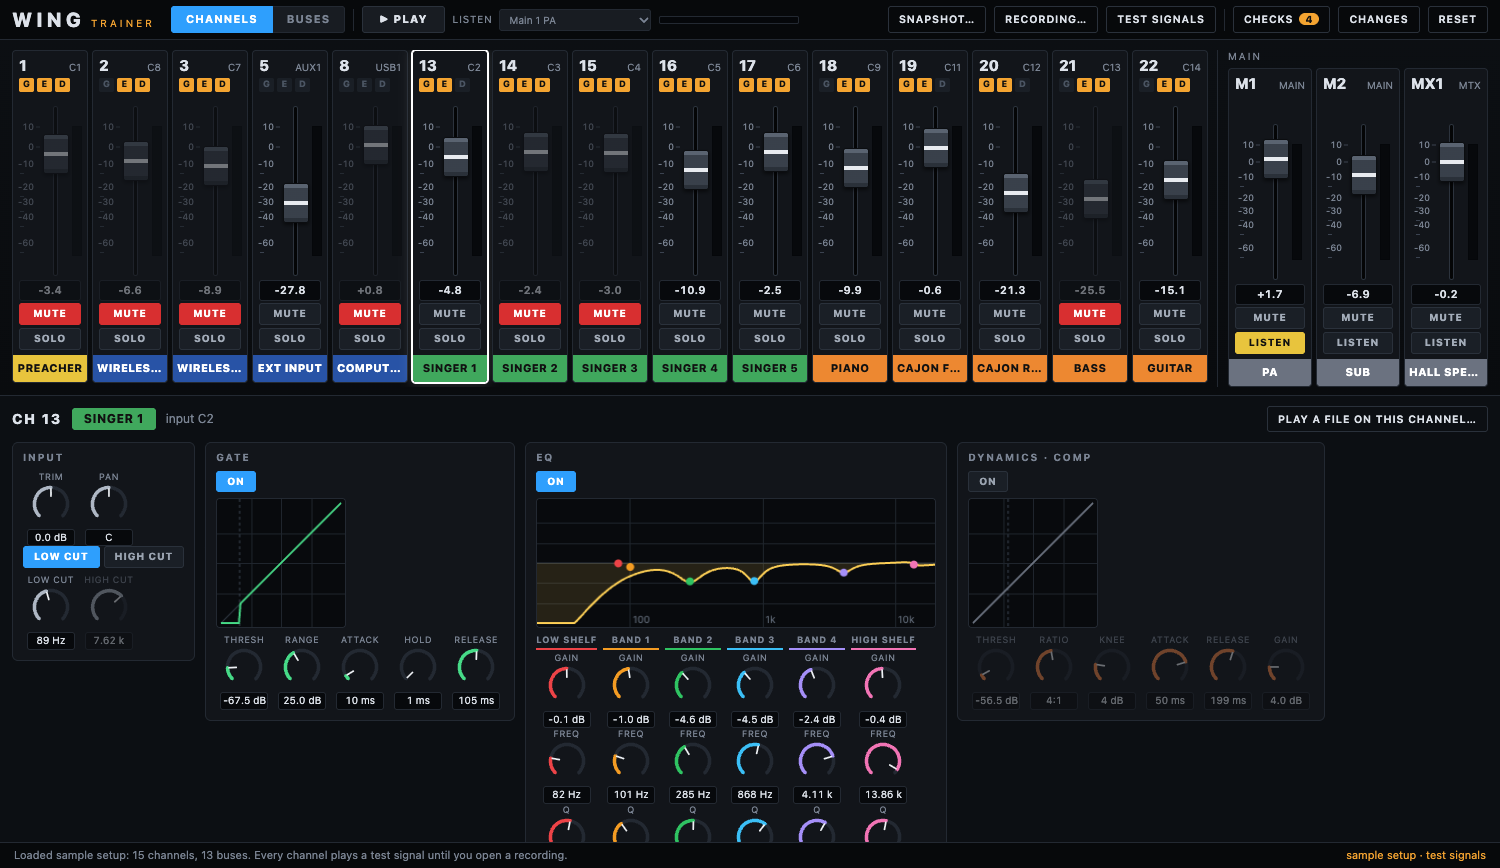
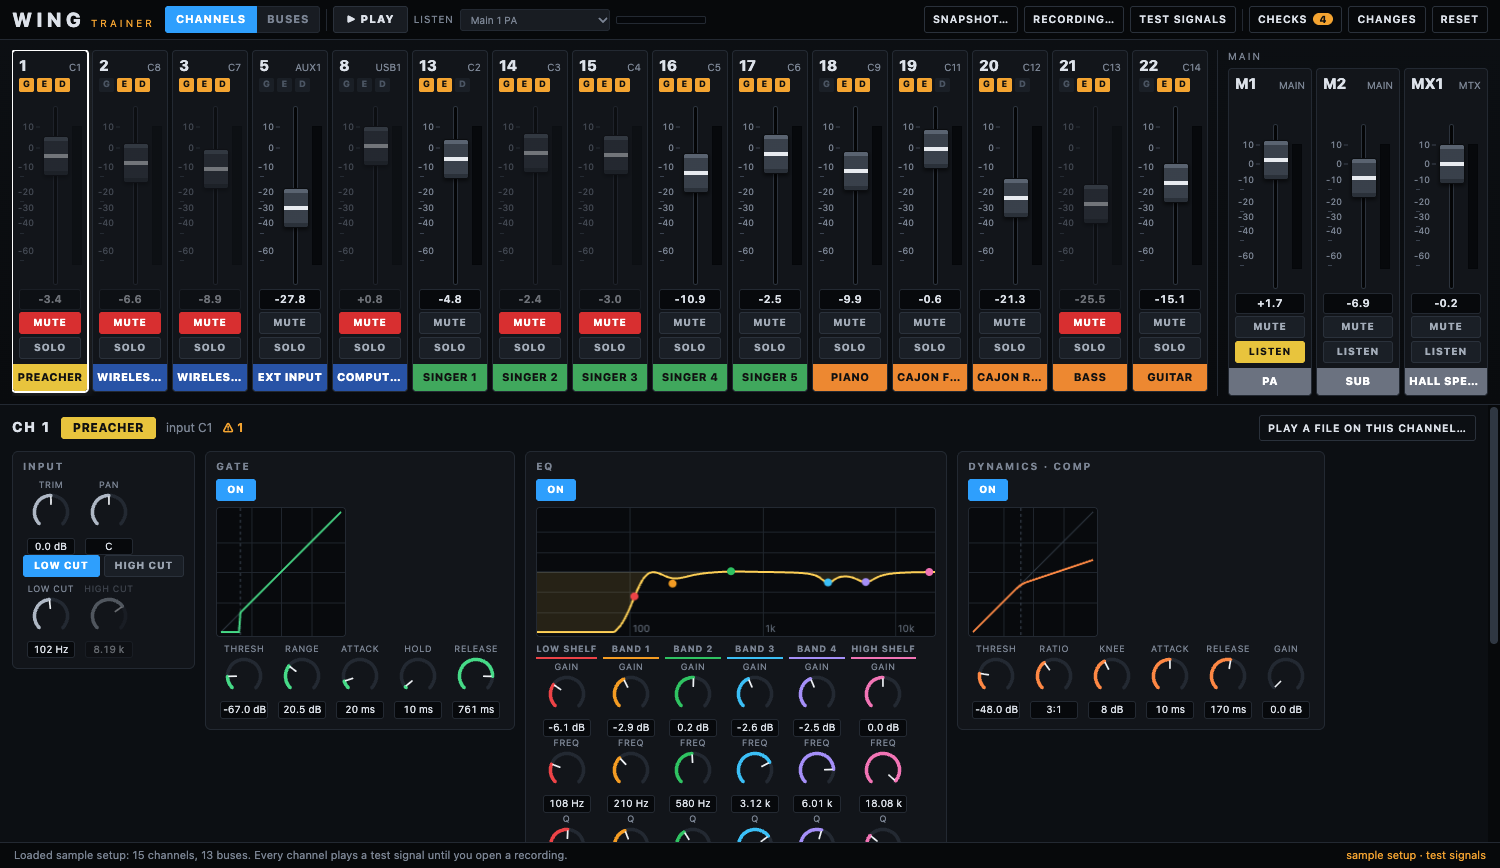
Fix the layout in smaller windows: nothing is cut off, strips and detail scroll with visible scrollbars, sends are readable

diff --git a/src/renderer/index.html b/src/renderer/index.html
@@ -9,23 +9,25 @@
       :root { color-scheme: dark; --bg: #0a0c0f; --panel: #12151a; --raised: #181c22; --line: #232932; --text: #dde2ea; --dim: #7b8494; --blue: #2f9bff; --amber: #f5a623; --red: #d9302c; --yellow: #e8c630; --green: #2fc46e; --knob: #aeb7c4 }
       * { box-sizing: border-box }
       html, body { height: 100%; margin: 0 }
-      body { background: var(--bg); color: var(--text); font: 12px/1.35 system-ui, -apple-system, 'Segoe UI', sans-serif; display: grid; grid-template-rows: auto 1fr auto; overflow: hidden; user-select: none }
+      body { background: var(--bg); color: var(--text); font: 12px/1.35 system-ui, -apple-system, 'Segoe UI', sans-serif; display: grid; grid-template-columns: minmax(0, 1fr); grid-template-rows: auto minmax(0, 1fr) auto; overflow: hidden; user-select: none }
       button, select { font: inherit; color: inherit }
       button { cursor: pointer } button:disabled { opacity: .4; cursor: default }
-      select { background: var(--raised); border: 1px solid var(--line); border-radius: 3px; padding: 3px 6px }
+      select { max-width: 150px; background: var(--raised); border: 1px solid var(--line); border-radius: 3px; padding: 3px 6px }
 
       /* top bar */
-      header { display: flex; align-items: center; gap: 8px; padding: 6px 12px; background: #07090b; border-bottom: 1px solid var(--line); flex-wrap: wrap }
-      .brand { display: flex; align-items: baseline; gap: 6px; margin-right: 8px } .brand b { font-size: 20px; letter-spacing: .22em; font-weight: 800 } .brand span { font-size: 10px; letter-spacing: .3em; color: var(--amber) }
-      .tabs { display: flex } .tab { background: var(--raised); border: 1px solid var(--line); padding: 5px 14px; letter-spacing: .1em; font-size: 11px; font-weight: 700; color: var(--dim) } .tab:first-child { border-radius: 3px 0 0 3px } .tab:last-child { border-radius: 0 3px 3px 0; border-left: 0 } .tab.on { background: var(--blue); border-color: var(--blue); color: #fff }
-      .flat { background: transparent; border: 1px solid #2a313b; border-radius: 3px; padding: 5px 10px; font-size: 10.5px; letter-spacing: .08em; font-weight: 600; color: var(--text) } .flat:hover { background: var(--raised) }
-      .play { background: var(--raised); border: 1px solid #2a313b; border-radius: 3px; padding: 5px 16px; font-weight: 800; letter-spacing: .1em; font-size: 11px } .play.on { background: var(--red); border-color: var(--red) }
+      header { display: flex; align-items: center; gap: 6px; padding: 6px 12px; background: #07090b; border-bottom: 1px solid var(--line); flex-wrap: wrap }
+      .brand { display: flex; align-items: baseline; gap: 6px; margin-right: 4px } .brand b { font-size: 20px; letter-spacing: .22em; font-weight: 800 } .brand span { font-size: 10px; letter-spacing: .3em; color: var(--amber) }
+      .tabs { display: flex } .tab { background: var(--raised); border: 1px solid var(--line); padding: 5px 10px; letter-spacing: .08em; font-size: 11px; font-weight: 700; color: var(--dim) } .tab:first-child { border-radius: 3px 0 0 3px } .tab:last-child { border-radius: 0 3px 3px 0; border-left: 0 } .tab.on { background: var(--blue); border-color: var(--blue); color: #fff }
+      .flat { background: transparent; border: 1px solid #2a313b; border-radius: 3px; padding: 5px 8px; font-size: 10.5px; letter-spacing: .08em; font-weight: 600; color: var(--text) } .flat:hover { background: var(--raised) }
+      .play { background: var(--raised); border: 1px solid #2a313b; border-radius: 3px; padding: 5px 12px; font-weight: 800; letter-spacing: .1em; font-size: 11px } .play.on { background: var(--red); border-color: var(--red) }
       .sep { width: 1px; height: 22px; background: var(--line) } .grow { flex: 1 } .dim { color: var(--dim) } .lst { color: var(--dim); font-size: 10px; letter-spacing: .08em; display: flex; align-items: center; gap: 6px }
       .badge { background: var(--amber); color: #111; border-radius: 8px; padding: 0 6px; font-size: 10px; font-weight: 800; margin-left: 6px }
-      .outmeter { width: 140px; height: 8px; background: #05070a; border: 1px solid var(--line); border-radius: 2px; overflow: hidden } .outmeter > i { display: block; height: 100%; width: 0; background: linear-gradient(to right, #2fc46e 0 70%, #f2c744 70% 88%, #ef4444 88%); background-size: 140px 100% }
+      .outmeter { width: 90px; height: 8px; background: #05070a; border: 1px solid var(--line); border-radius: 2px; overflow: hidden } .outmeter > i { display: block; height: 100%; width: 0; background: linear-gradient(to right, #2fc46e 0 70%, #f2c744 70% 88%, #ef4444 88%); background-size: 90px 100% }
 
-      main { min-height: 0; display: grid; grid-template-rows: minmax(300px, 41vh) 1fr }
-      #console { display: flex; gap: 0; padding: 10px 12px 8px; min-height: 0; border-bottom: 1px solid var(--line); background: linear-gradient(#0c0f13, #090b0e) }
+      main { min-height: 0; min-width: 0; display: grid; grid-template-columns: minmax(0, 1fr); grid-template-rows: minmax(345px, 42vh) minmax(0, 1fr) }
+      /* scrollbars that can be seen (the system's thin ones hide themselves, and the screen looks cut off) */
+      *::-webkit-scrollbar { width: 12px; height: 12px } *::-webkit-scrollbar-track { background: #07090b } *::-webkit-scrollbar-thumb { background: #2f3742; border-radius: 6px; border: 2px solid #07090b } *::-webkit-scrollbar-thumb:hover { background: #3d4756 } *::-webkit-scrollbar-corner { background: #07090b }
+      #console { min-width: 0; min-height: 0; overflow: hidden; display: flex; gap: 0; padding: 10px 12px 8px; min-height: 0; border-bottom: 1px solid var(--line); background: linear-gradient(#0c0f13, #090b0e) }
       #bank { flex: 1; display: flex; gap: 4px; overflow-x: auto; min-width: 0; padding-bottom: 4px }
       #outs { flex: none; border-left: 1px solid var(--line); margin-left: 8px; padding-left: 10px; display: flex; flex-direction: column } #outs .cap { font-size: 10px; letter-spacing: .2em; color: var(--dim); margin-bottom: 4px } #outs .row2 { display: flex; gap: 4px; flex: 1; min-height: 0 }
 
@@ -51,7 +53,7 @@
       .strip.bus, .strip.main, .strip.matrix { flex-basis: 84px }
 
       /* detail */
-      #detail { overflow: auto; padding: 10px 12px 14px; background: #0c0f13 }
+      #detail { min-width: 0; overflow: auto; padding: 10px 12px 14px; background: #0c0f13 }
       .dhead { display: flex; align-items: center; gap: 10px; margin-bottom: 10px } .cn { font-weight: 800; letter-spacing: .12em; font-size: 14px } .ctag { padding: 3px 12px; border-radius: 3px; font-weight: 800; text-transform: uppercase; letter-spacing: .04em }
       .nb { color: var(--amber); font-weight: 700; cursor: help }
       .sections { display: flex; flex-wrap: wrap; gap: 10px; align-items: flex-start }
@@ -64,7 +66,8 @@
       .kv { white-space: nowrap; font-size: 10px; font-variant-numeric: tabular-nums; background: #07090c; border: 1px solid var(--line); border-radius: 3px; padding: 1px 2px; margin: 0 4px }
       .ktrack { fill: none; stroke: #232932; stroke-width: 4; stroke-linecap: round } .kval { fill: none; stroke-width: 4; stroke-linecap: round } .kneedle { stroke: #eef1f5; stroke-width: 2; stroke-linecap: round }
       .bands { display: flex; gap: 6px } .band { display: flex; flex-direction: column; align-items: center } .bt { font-size: 9px; letter-spacing: .08em; font-weight: 700; color: var(--dim); border-bottom: 2px solid; padding-bottom: 2px; margin-bottom: 2px; width: 100%; text-align: center }
-      .sends { display: flex; flex-wrap: wrap; gap: 10px 6px } .send { width: 70px; display: flex; flex-direction: column; align-items: center; gap: 3px } .send .tr { margin: 0 }
+      .sends { display: flex; flex-wrap: wrap; gap: 12px 8px } .send { width: 92px; display: flex; flex-direction: column; align-items: center; gap: 4px } .send .tr { margin: 0; gap: 3px } .send .tog { padding: 3px 8px; min-width: 40px }
+      .send .knob { width: 92px } .send .kl { white-space: normal; text-align: center; line-height: 1.15; min-height: 2.3em; overflow: visible; font-size: 9.5px } .send > .kl { min-height: 0; margin-top: 2px }
       .note { font-size: 11px; padding: 6px 0; max-width: 260px }
       .finding { padding: 4px 0; user-select: text } .finding.warn::before { content: '⚠ '; color: var(--amber) } .finding.note::before { content: '• '; color: var(--dim) }
       footer { display: flex; gap: 16px; padding: 5px 14px; color: var(--dim); background: #07090b; border-top: 1px solid var(--line); min-height: 26px; font-size: 11px } footer #msg { flex: 1; min-width: 0; white-space: nowrap; overflow: hidden; text-overflow: ellipsis } footer #src { color: var(--amber); white-space: nowrap }

diff --git a/src/renderer/app.ts b/src/renderer/app.ts
@@ -623,6 +623,12 @@ function tick(): void {
 
 // --- start ---------------------------------------------------------------------------------------------------------------
 
+// The mouse wheel scrolls the strips sideways (a plain wheel only knows up and down).
+$('bank').addEventListener('wheel', (e) => {
+  const bank = $('bank')
+  if (Math.abs(e.deltaY) > Math.abs(e.deltaX) && bank.scrollWidth > bank.clientWidth) { bank.scrollLeft += e.deltaY; e.preventDefault() }
+}, { passive: false })
+
 void (async () => {
   await useSnapshot(parseSnapshot(sampleJson), 'sample setup')
   requestAnimationFrame(tick)

diff --git a/src/main/index.ts b/src/main/index.ts
@@ -10,10 +10,10 @@ let win: BrowserWindow | null = null
 
 function createWindow(): void {
   win = new BrowserWindow({
-    width: 1500,
-    height: 900,
-    minWidth: 1100,
-    minHeight: 700,
+    width: Number(process.env.WING_TRAINER_SIZE?.split('x')[0]) || 1500,
+    height: Number(process.env.WING_TRAINER_SIZE?.split('x')[1]) || 900,
+    minWidth: process.env.WING_TRAINER_SIZE ? 400 : 1100,
+    minHeight: process.env.WING_TRAINER_SIZE ? 300 : 700,
     title: 'WING Trainer',
     backgroundColor: '#14161b',
     show: !process.env.WING_TRAINER_EVAL || !!process.env.WING_TRAINER_SHOT,
